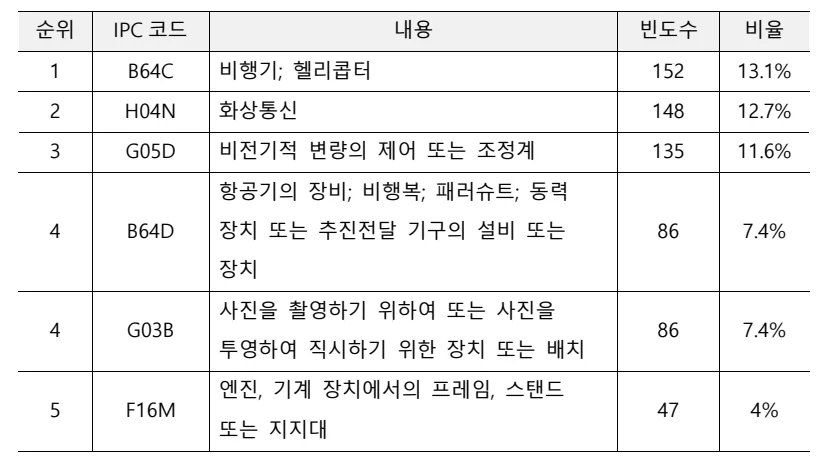
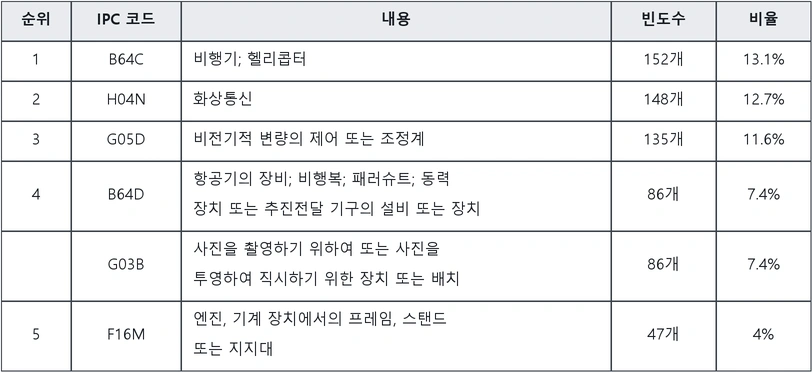
200104 표 2 재제작 — 저자 요청 단위 '개' 반영 (김혜주)
김혜주 저자의 원문 수정 요청 중 표 2 빈도수 칸의 단위 표기(152 → 152개 등 6곳)가
빠져 있었다. 기존 t2.webp는 원문 PDF를 잘라낸 이미지라 글자를 고칠 수 없어,
같은 표를 다시 그렸다(_build/gen_t2_200104.py). 표 5를 저자 정정본으로 재제작할 때와
같은 시각 언어를 따랐고, 두 번째 86개 행의 순위 칸을 비운 것도 저자 원고 그대로다.

diff --git a/_build/gen_t2_200104.py b/_build/gen_t2_200104.py
@@ -1,0 +1,77 @@
+# -*- coding: utf-8 -*-
+"""200104 <표 2> IPC 별 DJI 특허 현황(상위 5개) 재제작.
+
+저자(김혜주) 원문 수정 요청: 빈도수 칸에 단위 '개'를 붙여달라(152 → 152개 등).
+기존 t2.webp는 원문 PDF를 잘라낸 이미지라 글자를 고칠 수 없어, 같은 표를 다시 그린다.
+표 5(t5.webp)를 저자 정정본으로 재제작할 때 쓴 것과 같은 시각 언어를 따른다.
+"""
+import os
+from PIL import Image, ImageDraw, ImageFont
+
+OUT = 'fulltext/200104/img/t2.webp'
+FONT = 'C:/Windows/Fonts/malgun.ttf'
+FONT_B = 'C:/Windows/Fonts/malgunbd.ttf'
+S = 2                                    # 2배로 그린 뒤 축소(안티에일리어싱)
+
+HEAD = ['순위', 'IPC 코드', '내용', '빈도수', '비율']
+ROWS = [
+    ['1', 'B64C', '비행기; 헬리콥터', '152개', '13.1%'],
+    ['2', 'H04N', '화상통신', '148개', '12.7%'],
+    ['3', 'G05D', '비전기적 변량의 제어 또는 조정계', '135개', '11.6%'],
+    ['4', 'B64D', '항공기의 장비; 비행복; 패러슈트; 동력\n장치 또는 추진전달 기구의 설비 또는 장치', '86개', '7.4%'],
+    ['',  'G03B', '사진을 촬영하기 위하여 또는 사진을\n투영하여 직시하기 위한 장치 또는 배치', '86개', '7.4%'],
+    ['5', 'F16M', '엔진, 기계 장치에서의 프레임, 스탠드\n또는 지지대', '47개', '4%'],
+]
+COLW = [70, 110, 430, 105, 95]           # 합 810
+PAD_X, PAD_Y = 12, 10
+LINE_H = 30
+HEAD_BG = (233, 236, 240)
+BORDER = (60, 66, 74)
+INK = (24, 28, 34)
+
+
+def main():
+    fb = ImageFont.truetype(FONT_B, 15 * S)
+    fr = ImageFont.truetype(FONT, 15 * S)
+    heights = [LINE_H + PAD_Y]
+    for r in ROWS:
+        n = max(c.count('\n') + 1 for c in r)
+        heights.append(n * LINE_H + PAD_Y)
+    W = sum(COLW) + 2
+    H = sum(heights) + 2
+    im = Image.new('RGB', (W * S, H * S), 'white')
+    d = ImageDraw.Draw(im)
+
+    def cell(x, y, w, h, text, font, bg=None, align='center'):
+        if bg:
+            d.rectangle([x * S, y * S, (x + w) * S, (y + h) * S], fill=bg)
+        d.rectangle([x * S, y * S, (x + w) * S, (y + h) * S], outline=BORDER, width=1 * S)
+        lines = text.split('\n')
+        ty = y + (h - len(lines) * LINE_H) / 2
+        for ln in lines:
+            tw = d.textlength(ln, font=font) / S
+            tx = x + (w - tw) / 2 if align == 'center' else x + PAD_X
+            d.text((tx * S, ty * S + 4), ln, font=font, fill=INK)
+            ty += LINE_H
+
+    y = 1
+    x = 1
+    for i, htxt in enumerate(HEAD):
+        cell(x, y, COLW[i], heights[0], htxt, fb, HEAD_BG)
+        x += COLW[i]
+    y += heights[0]
+    for ri, r in enumerate(ROWS):
+        x = 1
+        for ci, c in enumerate(r):
+            cell(x, y, COLW[ci], heights[ri + 1], c, fr,
+                 align='left' if ci == 2 else 'center')
+            x += COLW[ci]
+        y += heights[ri + 1]
+
+    im = im.resize((W, H), Image.LANCZOS)
+    im.save(OUT, 'WEBP', quality=95)
+    print(f'{OUT} 생성 ({W}x{H})')
+
+
+if __name__ == '__main__':
+    main()
